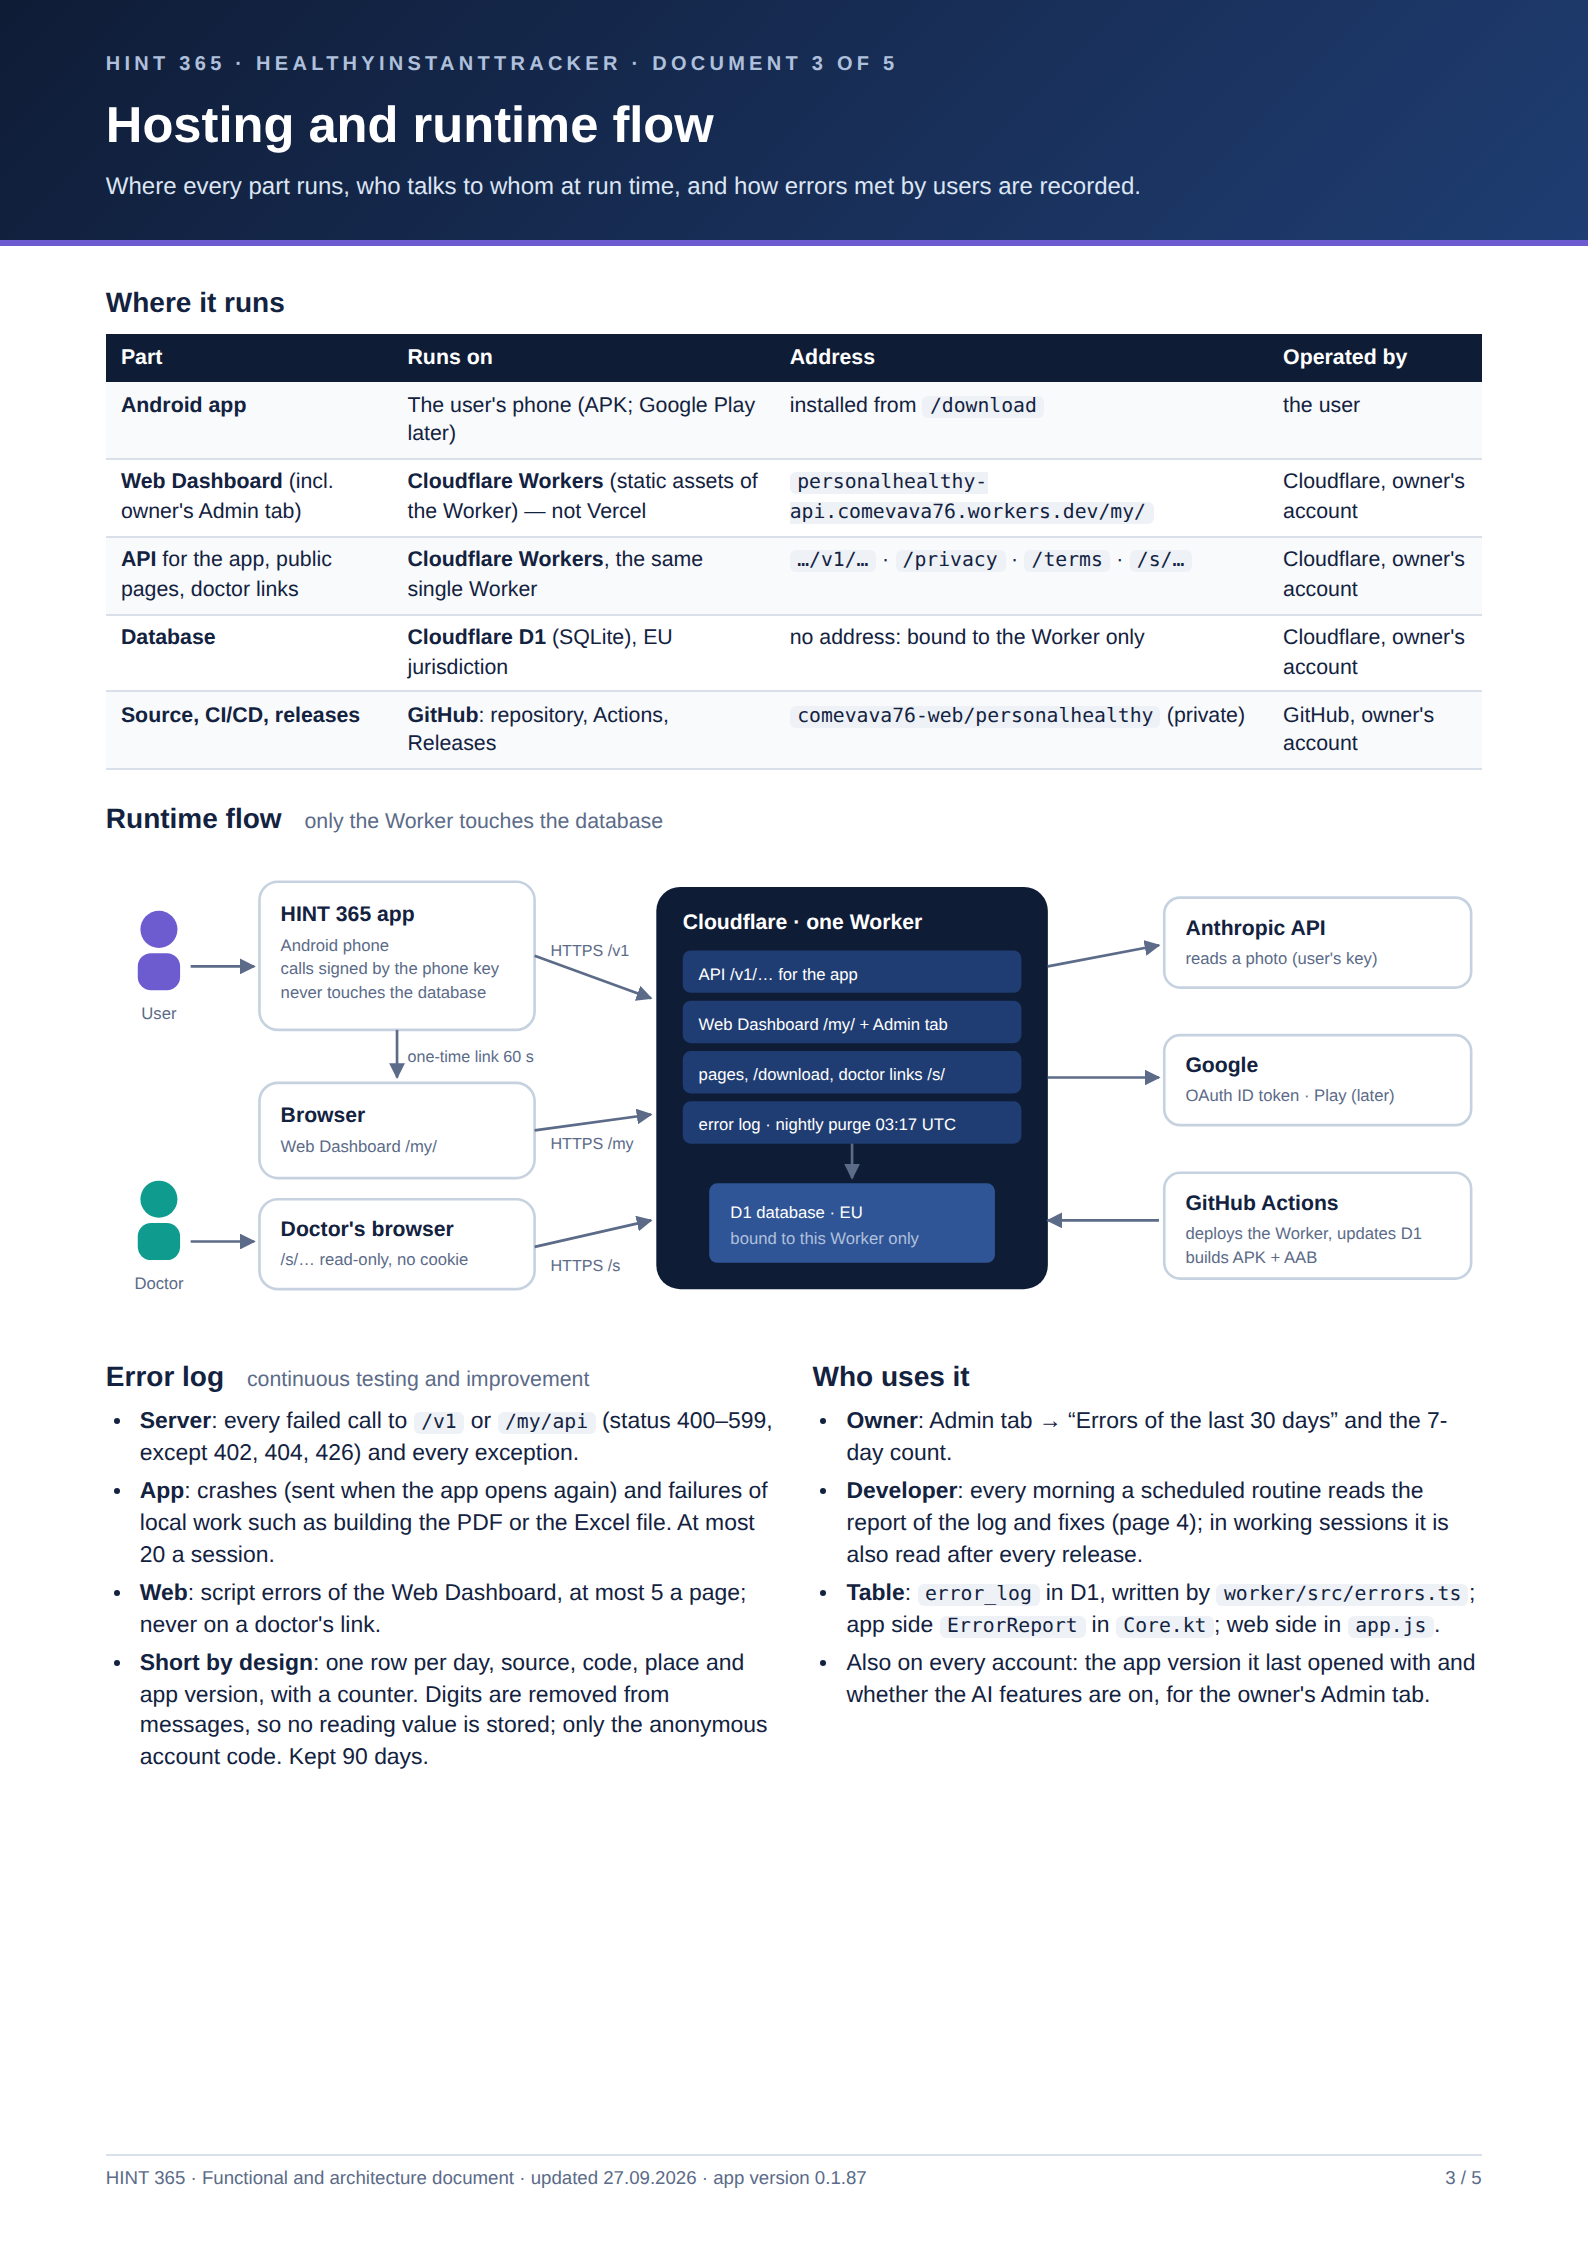
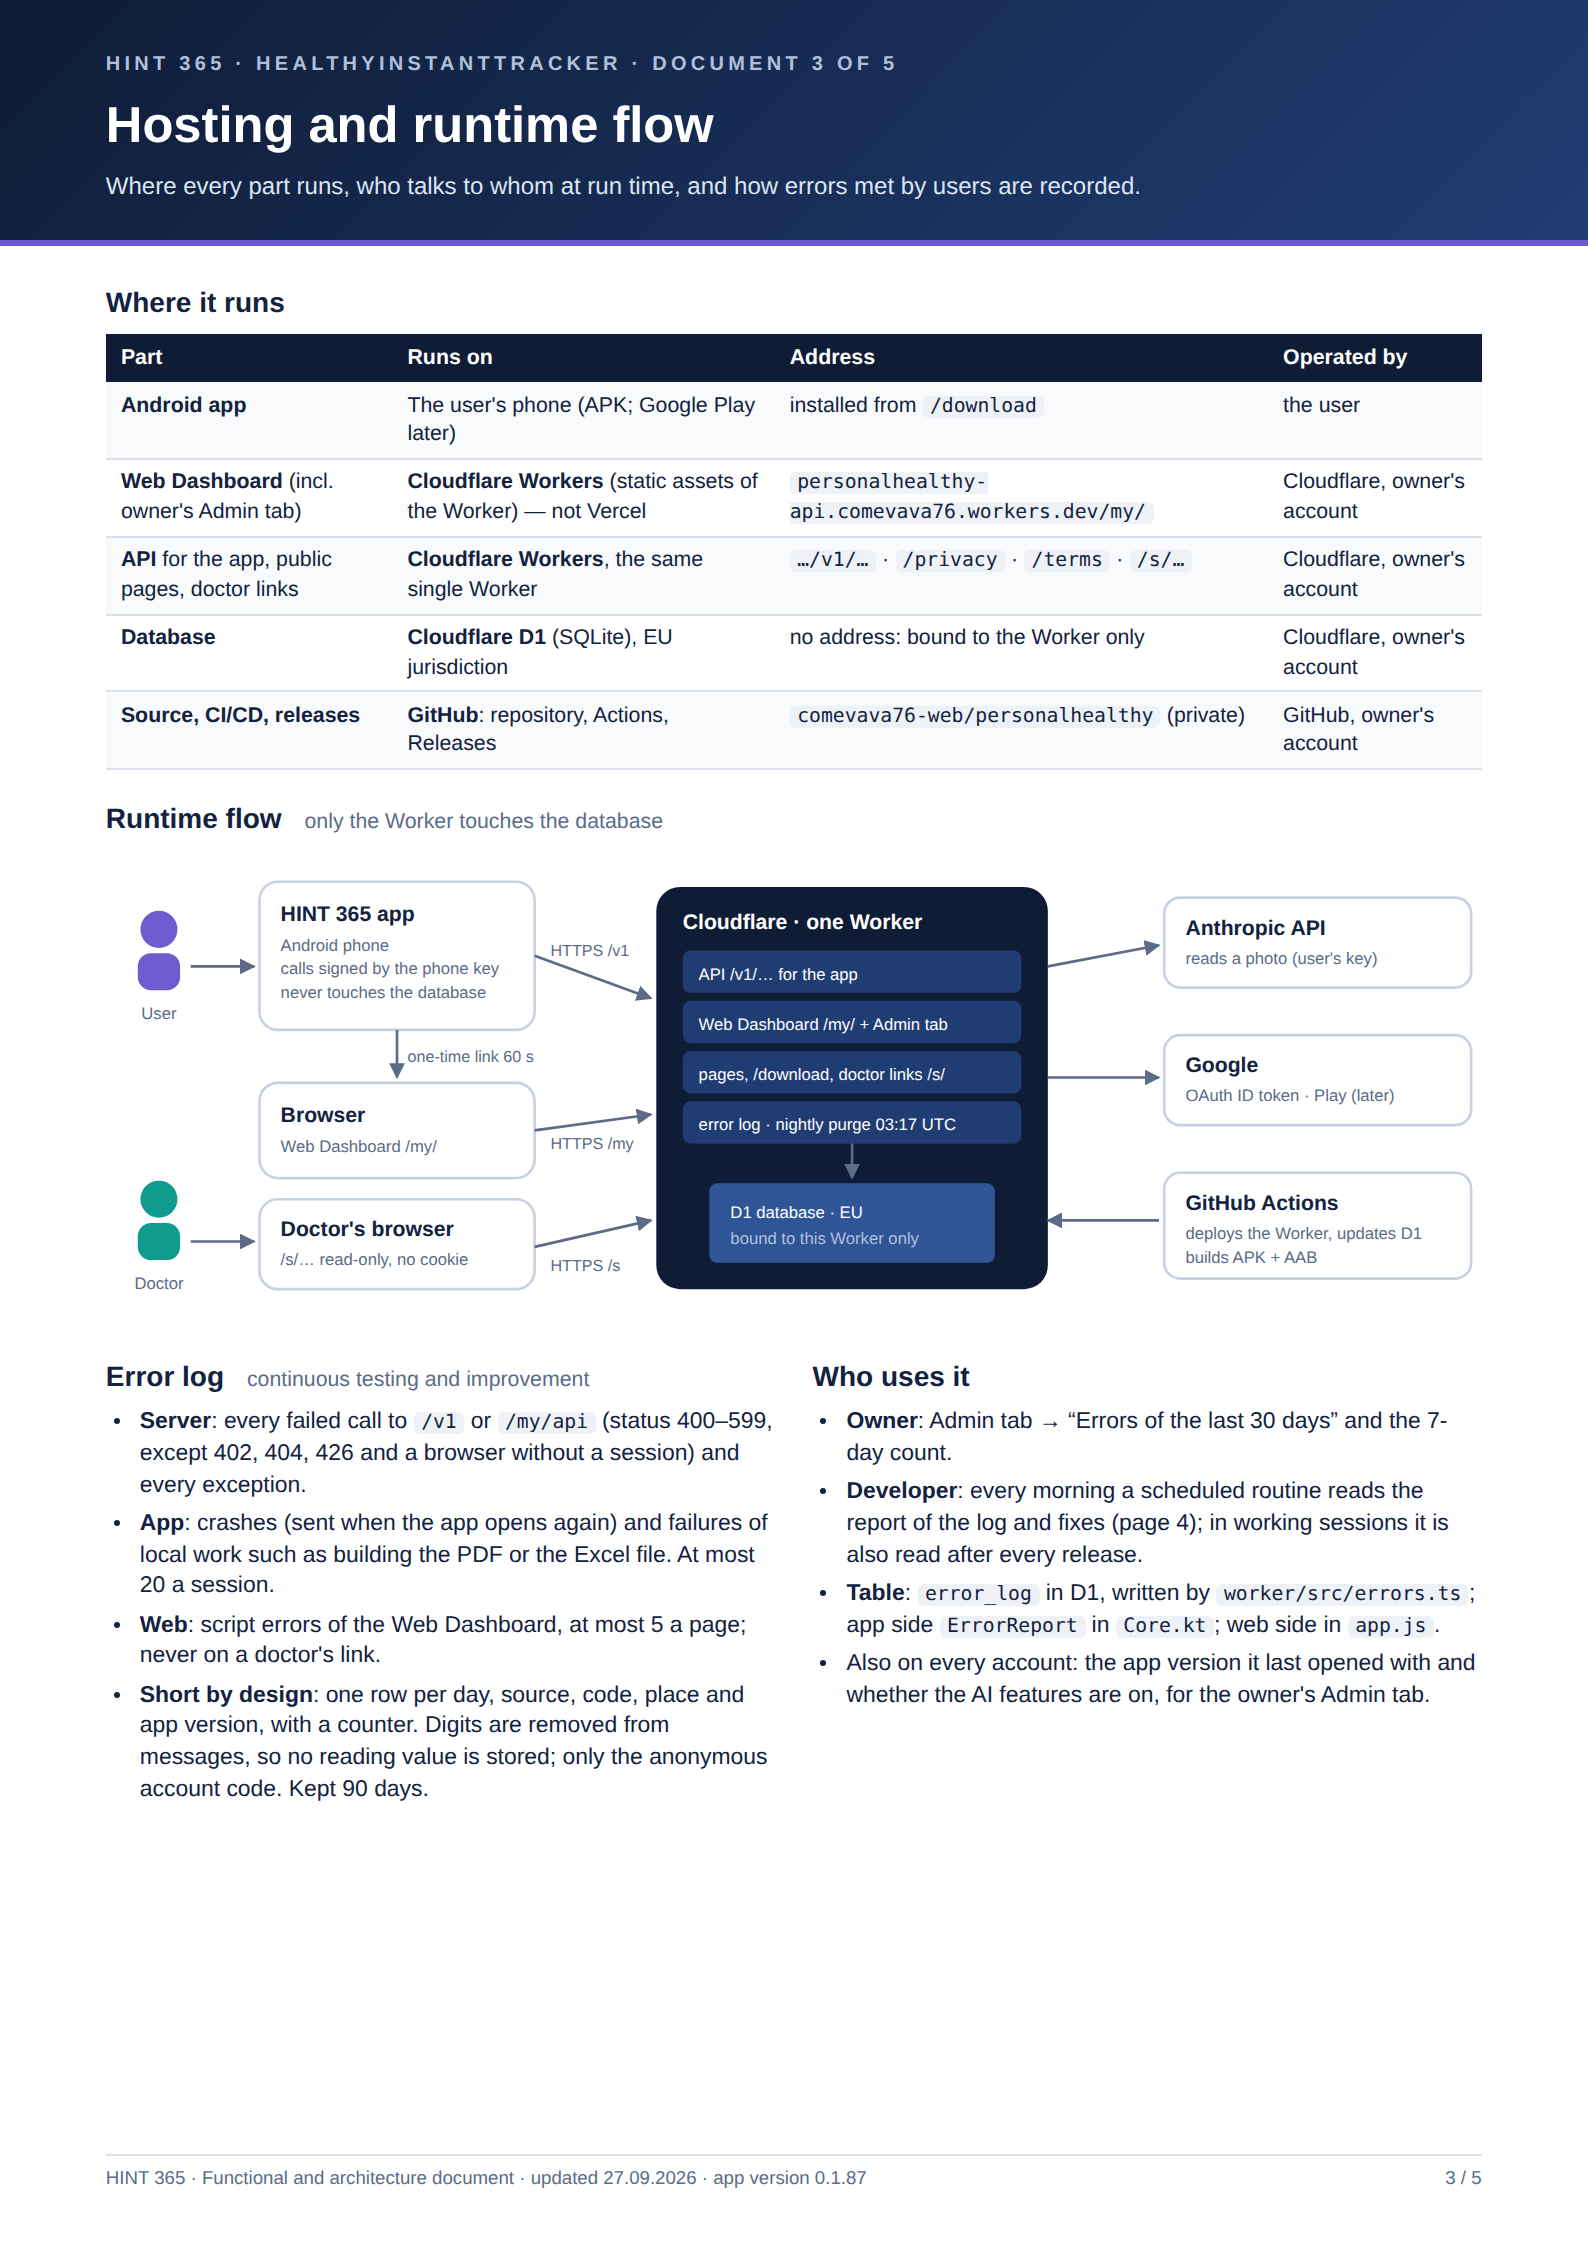
Registro errori: escluso no_session (Fixes #80) (#82)
* Remove the Refresh button; reload readings and credit when the app comes back to the front

Claude-Session: https://claude.ai/code/session_01HVZvBazZhZm9RtUYMabxtB

* Blood pressure tab: 7-day table with the values, no judgement on the readings

- The last 7 days (today included) show the values of each morning and evening
  (systolic above, diastolic below), a row with the pulse, and an afternoon row
  when there is an afternoon reading. No more coloured bars.
- New order: measure button, last reading, last 7 days, chart, recent readings.
- No more "normal / above threshold / high / low" labels: removed from the home,
  the photo screen, the Report tab, the PDF and the Excel file.
- Chart: no dashed 135/85 lines and no green/orange zones, in the app and in the PDF.

Claude-Session: https://claude.ai/code/session_01HVZvBazZhZm9RtUYMabxtB

* Last 7 days table: one value per day, the average of all that day's readings

The table no longer splits morning and evening: each day shows the average of all its readings
(systolic above, diastolic below) and the average pulse. The counter shows the number of readings.

Claude-Session: https://claude.ai/code/session_01HVZvBazZhZm9RtUYMabxtB

* Home: HINT title with a moving ECG logo, 7-day summary, chart without pulse, lower panels

- Title HINT with HealthyInstantTracker below, and next to it the app's ECG trace in the app's
  own colours (coral on navy instead of yellow on black), scrolling like a heart monitor.
[…]

Changed region(s): [[0.0926, 0.6233, 0.4937, 0.8103]]

diff --git a/docs/architecture/architecture.html b/docs/architecture/architecture.html
@@ -301,7 +301,7 @@
     <div>
       <h2>Error log <small>continuous testing and improvement</small></h2>
       <ul>
-        <li><b>Server</b>: every failed call to <code>/v1</code> or <code>/my/api</code> (status 400–599, except 402, 404, 426) and every exception.</li>
+        <li><b>Server</b>: every failed call to <code>/v1</code> or <code>/my/api</code> (status 400–599, except 402, 404, 426 and a browser without a session) and every exception.</li>
         <li><b>App</b>: crashes (sent when the app opens again) and failures of local work such as building the PDF or the Excel file. At most 20 a session.</li>
         <li><b>Web</b>: script errors of the Web Dashboard, at most 5 a page; never on a doctor's link.</li>
         <li><b>Short by design</b>: one row per day, source, code, place and app version, with a counter. Digits are removed from messages, so no reading value is stored; only the anonymous account code. Kept 90 days.</li>

diff --git a/worker/src/index.ts b/worker/src/index.ts
@@ -460,6 +460,8 @@ export default {
         const task = (async () => {
           let code = "http_" + res.status, message = "";
           try { const j: any = await res.clone().json(); code = j.code || code; message = j.error || ""; } catch {}
+          // a browser opening the Web Dashboard without a session is the normal way in, not an error
+          if (code === "no_session") return;
           await logError(q, {
             source: "server", code, place: req.method + " " + url.pathname, message,
             appVersion: req.headers.get("X-App-Version"),
